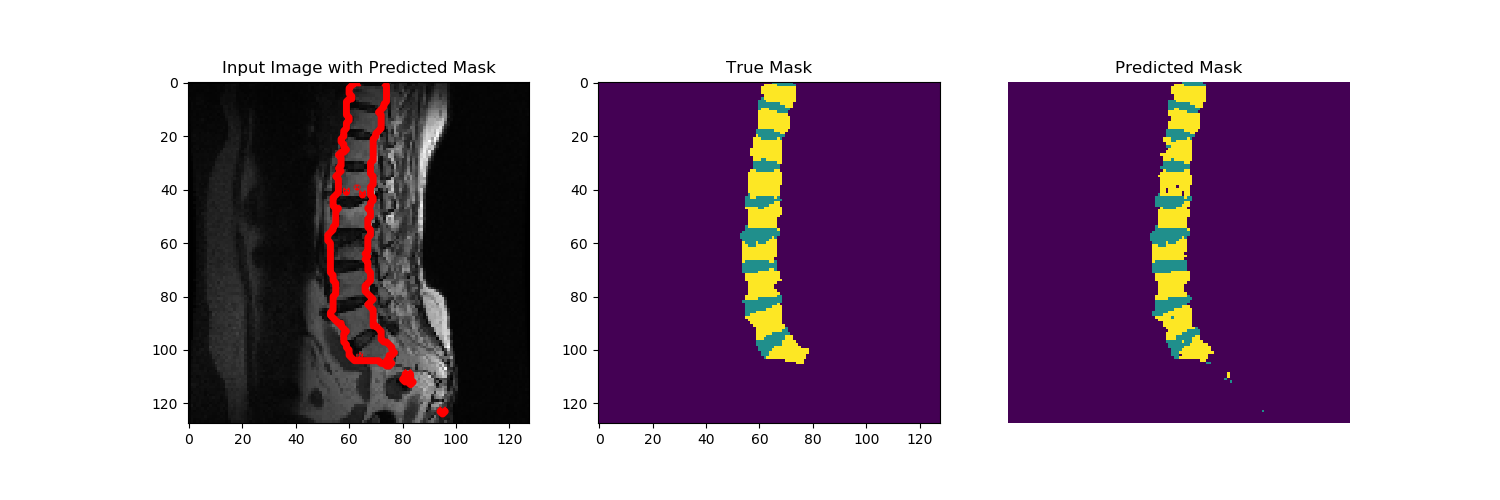
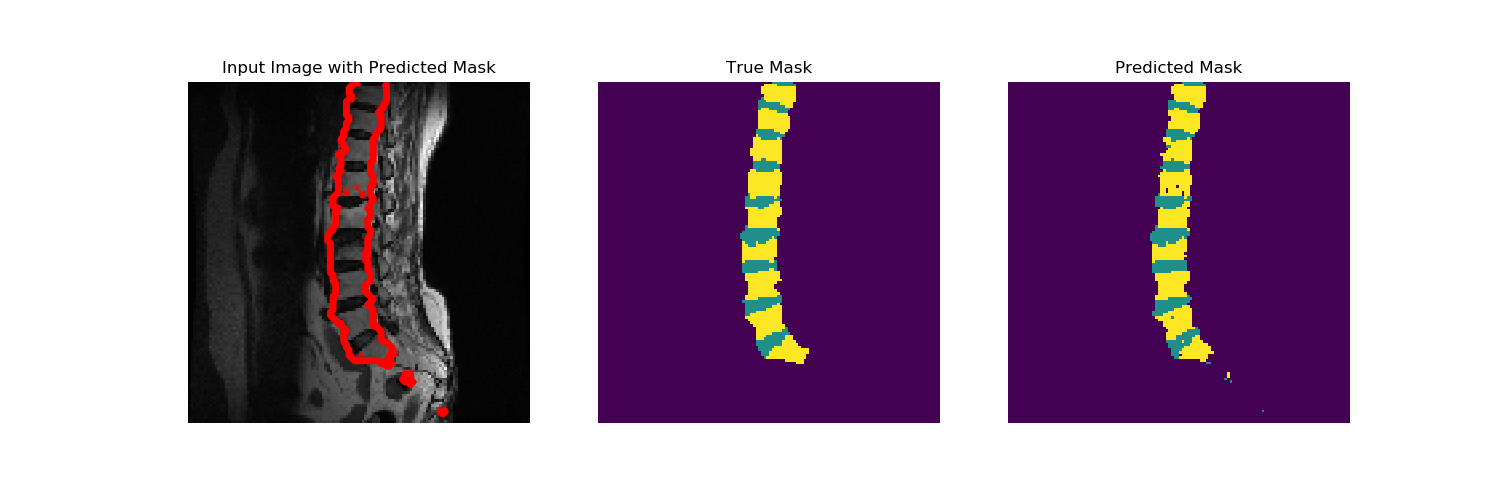
fixed_image

diff --git a/utils/helper_fn.py b/utils/helper_fn.py
@@ -18,12 +18,14 @@ def display(display_list):
     title = ['Input Image with Predicted Mask', 'True Mask', 'Predicted Mask']
     ax1.imshow(tf.keras.preprocessing.image.array_to_img(display_list[0]))
     ax1.set_title(title[0])
+    ax1.axis('off')
     ax2.imshow(tf.keras.preprocessing.image.array_to_img(display_list[1]))
     ax2.set_title(title[1])
+    ax2.axis('off')
     ax3.imshow(tf.keras.preprocessing.image.array_to_img(display_list[2]))
     ax3.set_title(title[2])
     ax1.contour(tf.keras.preprocessing.image.array_to_img(display_list[2]), colors='r',linewidths=5,levels=[0.5])
-    plt.axis('off')
+    ax3.axis('off')
     plt.show()
     # plt.figure(figsize=(15, 5))
     # for i in range(len(display_list)):
